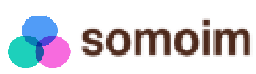
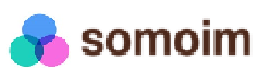
Add files via upload

diff --git a/index.html b/index.html
@@ -137,7 +137,7 @@
           <hr>
           <button class="btn btn-success" data-toggle="modal" data-target="#modal" >운영진 안내</button>
           <button class="btn btn-success" data-toggle="modal" data-target="#modal2" style="background-color: rgb(54, 162, 235);" > 계좌 안내</button>
-          <a href="http://somoim.friendscube.com/g/03175b9c-d813-11e7-bf18-22000aa83baa1"><button class="btn btn-success" data-toggle="modal" data-target="#modal3" style="background-color: rgb(255, 255, 255);" > <img  src="./img/somoim.png" width="100" height="30"></button> </a>
+          <a href="http://somoim.friendscube.com/g/03175b9c-d813-11e7-bf18-22000aa83baa1"><button class="btn btn-success" data-toggle="modal" data-target="#modal3" style="background-color: rgb(255, 255, 255);" > <img  src="./img/somoim.png" width="90" height="25"></button> </a>
          <!-- 운영진 안내-->
           <div class="modal fade" id="modal" tabindex="-1" role="dialog" aria-labelledby="modal" aria-hidden="true">
             <div class="modal-dialog">
@@ -313,7 +313,7 @@
                 
                 <tr>
                   <th scope="row" class="mobile" style="text-align:center;">3</th>
-                  <td style="text-align:left;"> 5월) 5/23(토) ~ 5/24(일) : 국내여행 <b style="color:blue;"> (투표예정) </b> </td>
+                  <td style="text-align:left;"> 5월) 5/23(토) ~ 5/24(일) : 여행 <b style="color:blue;"> (투표예정) </b> </td>
                   <td class="mobile" style="text-align:center;">모임장</td>
                   <td class="mobile" style="text-align:center;">2020-01-18</td>
                 </tr>
